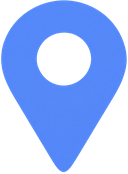
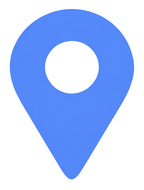
Markers: add a white outline and enlarge slightly for visibility
marker.png is regenerated from maker_image.png with a ~2.6px (on screen)
white stroke around the pin and its hole; display width 30-50px.

Claude-Session: https://claude.ai/code/session_01QyUschkezPNteRQgoBSBiz

diff --git a/src/components/MapMarkers.css b/src/components/MapMarkers.css
@@ -3,7 +3,7 @@
    핀 끝이 장소 위 기준점에 오도록 배치하고, 위아래로 둥실둥실
    ───────────────────────────────────────── */
 .map-marker {
-  --marker-w: clamp(26px, 2.6vw, 44px);
+  --marker-w: clamp(30px, 3vw, 50px);
   position: absolute;
   left: 0;
   top: 0;
